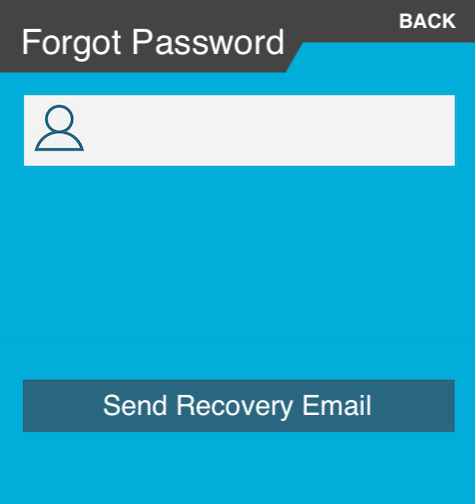
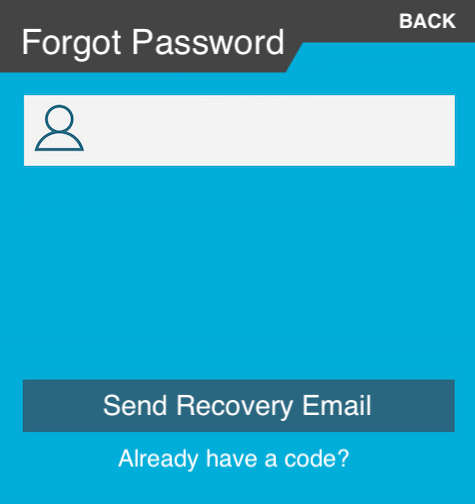
combine backend into front end of login screen, add recovery sequence

Changed region(s): [[0.2358, 0.8929, 0.7368, 0.9524]]

diff --git a/game_view.py b/game_view.py
@@ -4,6 +4,7 @@ from pygame.locals import *
 from random import randrange
 import os
 import pygame_textinput
+from client import Client
 
 # Import pygameMenu
 import pygameMenu
@@ -26,6 +27,7 @@ MY_FONT = pygame.font.Font(pygameMenu.fonts.FONT_FRANCHISE, 40)
 # -----------------------------------------------------------------------------
 # Init pygame
 pygame.init()
+client = Client()
 os.environ['SDL_VIDEO_CENTERED'] = '1'
 
 # Create pygame screen and objects
@@ -35,14 +37,7 @@ clock = pygame.time.Clock()
 dt = 1 / FPS
 
 # -----------------------------------------------------------------------------
-def random_color():
-    """
-    Return random color.
-    
-    :return: Color tuple
-    """
-    return randrange(0, 255), randrange(0, 255), randrange(0, 255)
-
+# VIEW FUNCTIONS
 def login_function():
     """
     Login game function
@@ -147,7 +142,9 @@ def create_new_account():
 
     email = pygame_textinput.TextInput()
     username = pygame_textinput.TextInput()
-    password = pygame_textinput.TextInput()
+    password1 = pygame_textinput.TextInput()
+    password2 = pygame_textinput.TextInput()
+
     login_view = pygame.image.load("images/menu/create-account.png")
     surface.fill(COLOR_BACKGROUND)
 
@@ -174,14 +171,18 @@ def create_new_account():
                     selected = "email"
                 elif mouse_pos[0] in range(190,610) and mouse_pos[1] in range(235,298):
                     selected = "username"
-                elif mouse_pos[0] in range(190,610) and mouse_pos[1] in range(330,392):
-                    selected = "password"
-                elif mouse_pos[0] in range(186,612) and mouse_pos[1] in range(430,477):
+                elif mouse_pos[0] in range(190,610) and mouse_pos[1] in range(320,385):
+                    selected = "password1"
+                elif mouse_pos[0] in range(190,610) and mouse_pos[1] in range(403,470):
+                    selected = "password2"
+                elif mouse_pos[0] in range(186,612) and mouse_pos[1] in range(483,535):
                     # account creation
-                    if len(email.get_text()) < 1 or len(username.get_text()) < 1 or len(password.get_text()) < 1:
+                    if len(email.get_text()) < 1 or len(username.get_text()) < 1 or len(password1.get_text()) < 1 or len(password2.get_text()) < 1:
                         break
-                    login(username = username.get_text(), email = email.get_text(), password = password.get_text())
-                    return
+                    if password1.get_text() == password2.get_text():
+                        print("GOING TO LOG IN NOW")
+                        login(username = username.get_text(), email = email.get_text(), password = password1.get_text())
+                        return
                 elif mouse_pos[0] in range(562,617) and mouse_pos[1] in range(62,77):
                     # go back
                     login_function()
@@ -191,8 +192,10 @@ def create_new_account():
             email.update(playevents)   
         elif selected == "username":
             username.update(playevents)   
-        elif selected == "password":
-            password.update(playevents, passProtect=True)
+        elif selected == "password1":
+            password1.update(playevents, passProtect=True)
+        elif selected == "password2":
+            password2.update(playevents, passProtect=True)
             
         surface.blit(login_view, ((WINDOW_SIZE[0] - login_view.get_size()[0]) / 2, (WINDOW_SIZE[1] - login_view.get_size()[1]) / 2))
         if len(email.get_text()) >= 1:
@@ -203,10 +206,14 @@ def create_new_account():
             surface.blit(username.get_surface(), (250,257))  
         else:
             surface.blit(MY_FONT.render('Username', 1, COLOR_BLACK), (250,247))  
-        if len(password.get_text()) >= 1:
-            surface.blit(password.get_surface(), (250,352))
+        if len(password1.get_text()) >= 1:
+            surface.blit(password1.get_surface(), (250,352))
         else:
             surface.blit(MY_FONT.render('Password', 1, COLOR_BLACK), (250,342))  
+        if len(password2.get_text()) >= 1:
+            surface.blit(password2.get_surface(), (250,432))
+        else:
+            surface.blit(MY_FONT.render('Password', 1, COLOR_BLACK), (250,422))  
         pygame.display.flip()
 
     return
@@ -239,6 +246,9 @@ def forgot_password():
                         break
                     send_recovery_email(email = email.get_text())
                     return
+                elif mouse_pos[0] in range(277,510) and mouse_pos[1] in range(496,513):
+                    recover_account()
+                    return
                 elif mouse_pos[0] in range(562,617) and mouse_pos[1] in range(62,77):
                     # go back
                     login_function()
@@ -258,18 +268,18 @@ def forgot_password():
 
 def update_account():
     """
-    Create new account game function
+    Update account game function
     
     :return: None
     """
 
-    email = pygame_textinput.TextInput()
     username = pygame_textinput.TextInput()
+    oldPassword = pygame_textinput.TextInput()
     password = pygame_textinput.TextInput()
     login_view = pygame.image.load("images/menu/update-account.png")
     surface.fill(COLOR_BACKGROUND)
 
-    selected = "email"
+    selected = "username"
     
     while True:
         # Clock tick
@@ -289,38 +299,38 @@ def update_account():
                 mouse_pos = pygame.mouse.get_pos()
                 print(mouse_pos)
                 if mouse_pos[0] in range(190,610) and mouse_pos[1] in range(148,210):
-                    selected = "email"
-                elif mouse_pos[0] in range(190,610) and mouse_pos[1] in range(235,298):
                     selected = "username"
+                elif mouse_pos[0] in range(190,610) and mouse_pos[1] in range(235,298):
+                    selected = "oldPassword"
                 elif mouse_pos[0] in range(190,610) and mouse_pos[1] in range(330,392):
                     selected = "password"
                 elif mouse_pos[0] in range(186,612) and mouse_pos[1] in range(430,477):
                     # update account
-                    if len(email.get_text()) < 1 or len(username.get_text()) < 1 or len(password.get_text()) < 1:
+                    if len(oldPassword.get_text()) < 1 or len(username.get_text()) < 1 or len(password.get_text()) < 1:
                         break
-                    update_account_information(username = username.get_text(), email = email.get_text(), password = password.get_text())
+                    update_account_information(username = username.get_text(), oldPassword = oldPassword.get_text(), password = password.get_text())
                     return
                 elif mouse_pos[0] in range(562,617) and mouse_pos[1] in range(62,77):
                     # go back
                     login_function()
                     return
         
-        if selected == "email":
-            email.update(playevents)   
-        elif selected == "username":
+        if selected == "username":
             username.update(playevents)   
+        elif selected == "oldPassword":
+            oldPassword.update(playevents, passProtect=True)   
         elif selected == "password":
             password.update(playevents, passProtect=True)
             
         surface.blit(login_view, ((WINDOW_SIZE[0] - login_view.get_size()[0]) / 2, (WINDOW_SIZE[1] - login_view.get_size()[1]) / 2))
-        if len(email.get_text()) >= 1:
-            surface.blit(email.get_surface(), (250,170))  
-        else:
-            surface.blit(MY_FONT.render('Email', 1, COLOR_BLACK), (250,160))  
         if len(username.get_text()) >= 1:
-            surface.blit(username.get_surface(), (250,257))  
+            surface.blit(username.get_surface(), (250,170))  
         else:
-            surface.blit(MY_FONT.render('Username', 1, COLOR_BLACK), (250,247))  
+            surface.blit(MY_FONT.render('Username', 1, COLOR_BLACK), (250,160))  
+        if len(oldPassword.get_text()) >= 1:
+            surface.blit(oldPassword.get_surface(), (250,257))  
+        else:
+            surface.blit(MY_FONT.render('Old Password', 1, COLOR_BLACK), (250,247))  
         if len(password.get_text()) >= 1:
             surface.blit(password.get_surface(), (250,352))
         else:
@@ -329,22 +339,124 @@ def update_account():
 
     return
 
+def recover_account():
+    """
+    Recover account
 
-def login(username, password, email=None):
-    print("username", username)
-    print("email", email)
-    print("password", password)
+    :return: None
+    """
+
+    username = pygame_textinput.TextInput()
+    code = pygame_textinput.TextInput()
+    password1 = pygame_textinput.TextInput()
+    password2 = pygame_textinput.TextInput()
+    login_view = pygame.image.load("images/menu/recover-account.png")
+    surface.fill(COLOR_BACKGROUND)
+
+    selected = "username"
+    
+    while True:
+        # Clock tick
+        clock.tick(60)
+
+        # Application events
+        playevents = pygame.event.get()
+
+        for e in playevents:
+            if e.type == QUIT:
+                exit()
+            elif e.type == KEYDOWN:
+                if e.key == K_ESCAPE and main_menu.is_disabled():
+                    login_function()
+                    return
+            elif e.type == MOUSEBUTTONDOWN:
+                mouse_pos = pygame.mouse.get_pos()
+                print(mouse_pos)
+                if mouse_pos[0] in range(190,610) and mouse_pos[1] in range(148,210):
+                    selected = "username"
+                elif mouse_pos[0] in range(190,610) and mouse_pos[1] in range(235,298):
+                    selected = "code"
+                elif mouse_pos[0] in range(190,610) and mouse_pos[1] in range(320,385):
+                    selected = "password1"
+                elif mouse_pos[0] in range(190,610) and mouse_pos[1] in range(403,470):
+                    selected = "password2"
+                elif mouse_pos[0] in range(186,612) and mouse_pos[1] in range(483,535):
+                    # update account
+                    if len(code.get_text()) < 1 or len(username.get_text()) < 1 or len(password1.get_text()) < 1 or len(password2.get_text()) < 1:
+                        break
+                    if password1.get_text() == password2.get_text():
+                        recover_account_credentials(username = username.get_text(), code = code.get_text(), password = password1.get_text())
+                    return
+                elif mouse_pos[0] in range(562,617) and mouse_pos[1] in range(62,77):
+                    # go back
+                    login_function()
+                    return
+        
+        if selected == "username":
+            username.update(playevents)   
+        elif selected == "code":
+            code.update(playevents)   
+        elif selected == "password1":
+            password1.update(playevents, passProtect=True)
+        elif selected == "password2":
+            password2.update(playevents, passProtect=True)
+            
+        surface.blit(login_view, ((WINDOW_SIZE[0] - login_view.get_size()[0]) / 2, (WINDOW_SIZE[1] - login_view.get_size()[1]) / 2))
+        if len(username.get_text()) >= 1:
+            surface.blit(username.get_surface(), (250,170))  
+        else:
+            surface.blit(MY_FONT.render('Username', 1, COLOR_BLACK), (250,160))  
+        if len(code.get_text()) >= 1:
+            surface.blit(code.get_surface(), (250,257))  
+        else:
+            surface.blit(MY_FONT.render('Code', 1, COLOR_BLACK), (250,247))  
+        if len(password1.get_text()) >= 1:
+            surface.blit(password1.get_surface(), (250,352))
+        else:
+            surface.blit(MY_FONT.render('Password', 1, COLOR_BLACK), (250,342))  
+        if len(password2.get_text()) >= 1:
+            surface.blit(password2.get_surface(), (250,432))
+        else:
+            surface.blit(MY_FONT.render('Password', 1, COLOR_BLACK), (250,422))  
+        pygame.display.flip()
+
     return
 
-def update_account_information(username, password, email):
-    print("username", username)
-    print("email", email)
-    print("password", password)
+# -----------------------------------------------------------------------------
+# CALLING EXTERNAL FUNCTIONS 
+def login(username, password, email=None):
+    if email is None:
+        print("logging in")
+        client.login(username, password)
+    else:
+        print("creating account")
+        client.create_account(username, password, email)
+    return
+
+def update_account_information(username, oldPassword, password):
+    print("updating account info")
+    client.change_credentials(username, oldPassword, password)
     return
 
 def send_recovery_email(email):
-    print("email", email)
+    print("send recovery email")
+    client.send_recovery(email)
     return
+
+def recover_account_credentials(username, code, password):
+    print("recover account credentials")
+    client.recover_account(username, code, password, password)
+    return
+
+
+# -----------------------------------------------------------------------------
+def random_color():
+    """
+    Return random color.
+    
+    :return: Color tuple
+    """
+    return randrange(0, 255), randrange(0, 255), randrange(0, 255)
 
 def main_background():
     """
